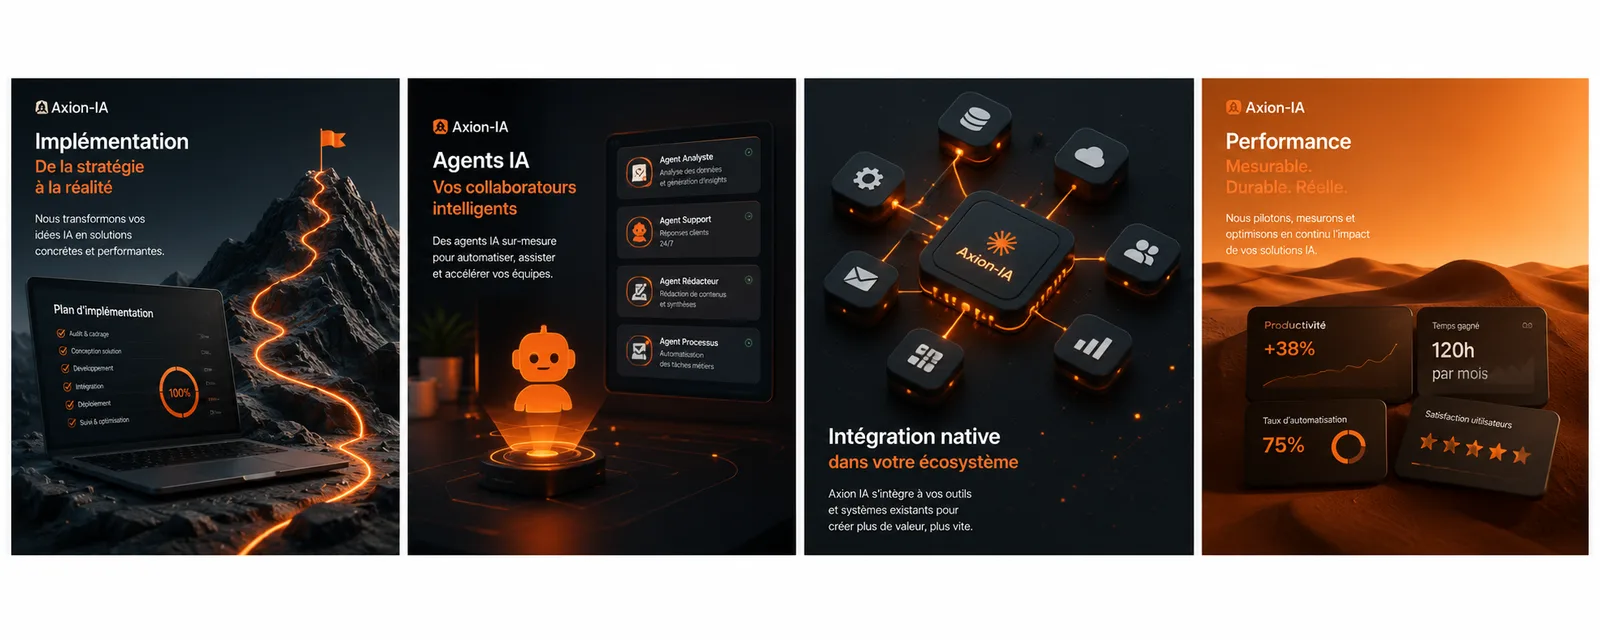
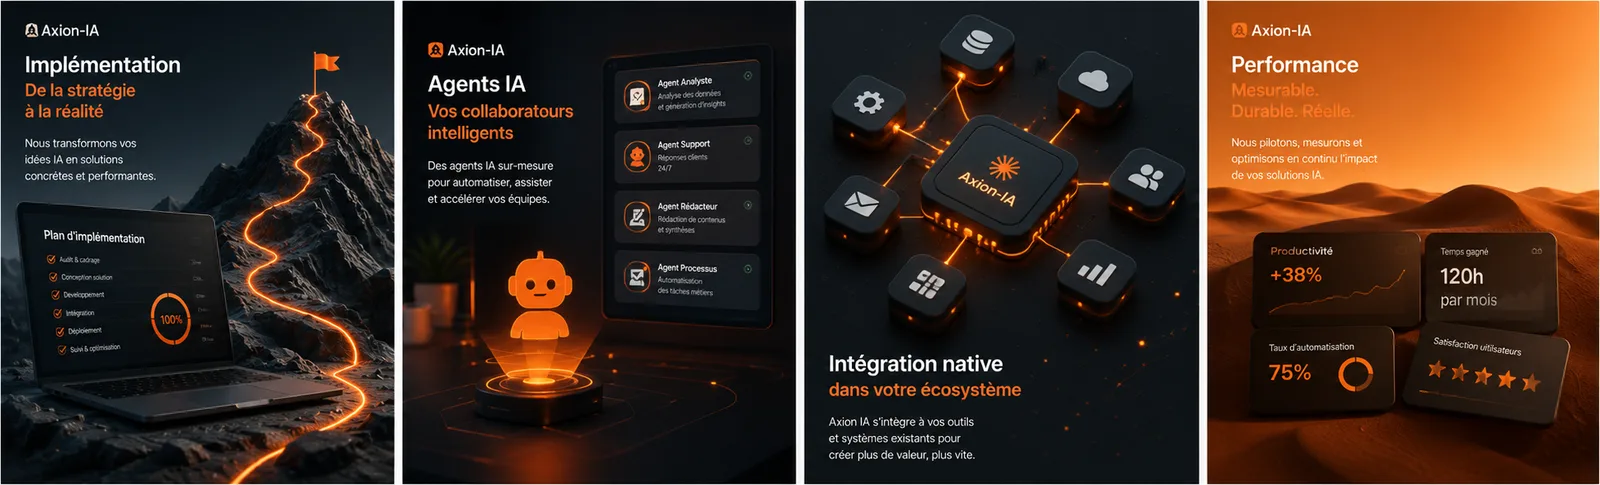
fix(implementation): détoure le fond blanc du visuel des 4 piliers
trim sharp du blanc autour/sous les panneaux (1600x640 → 1600x485) + maj des
dimensions next/image pour garder le bon ratio. Plus aucun fond blanc derrière
l'image.

diff --git a/src/components/services/implementation/ImplementationServices.tsx b/src/components/services/implementation/ImplementationServices.tsx
@@ -184,7 +184,7 @@ export function ImplementationServices({ isFr }: ImplementationServicesProps): R
               : "The 4 pillars of Axion-IA AI implementation: Implementation, AI agents, Native integration and Performance."
           }
           width={1600}
-          height={640}
+          height={485}
           loading="lazy"
           decoding="async"
           sizes="(max-width: 1520px) 92vw, 1456px"
